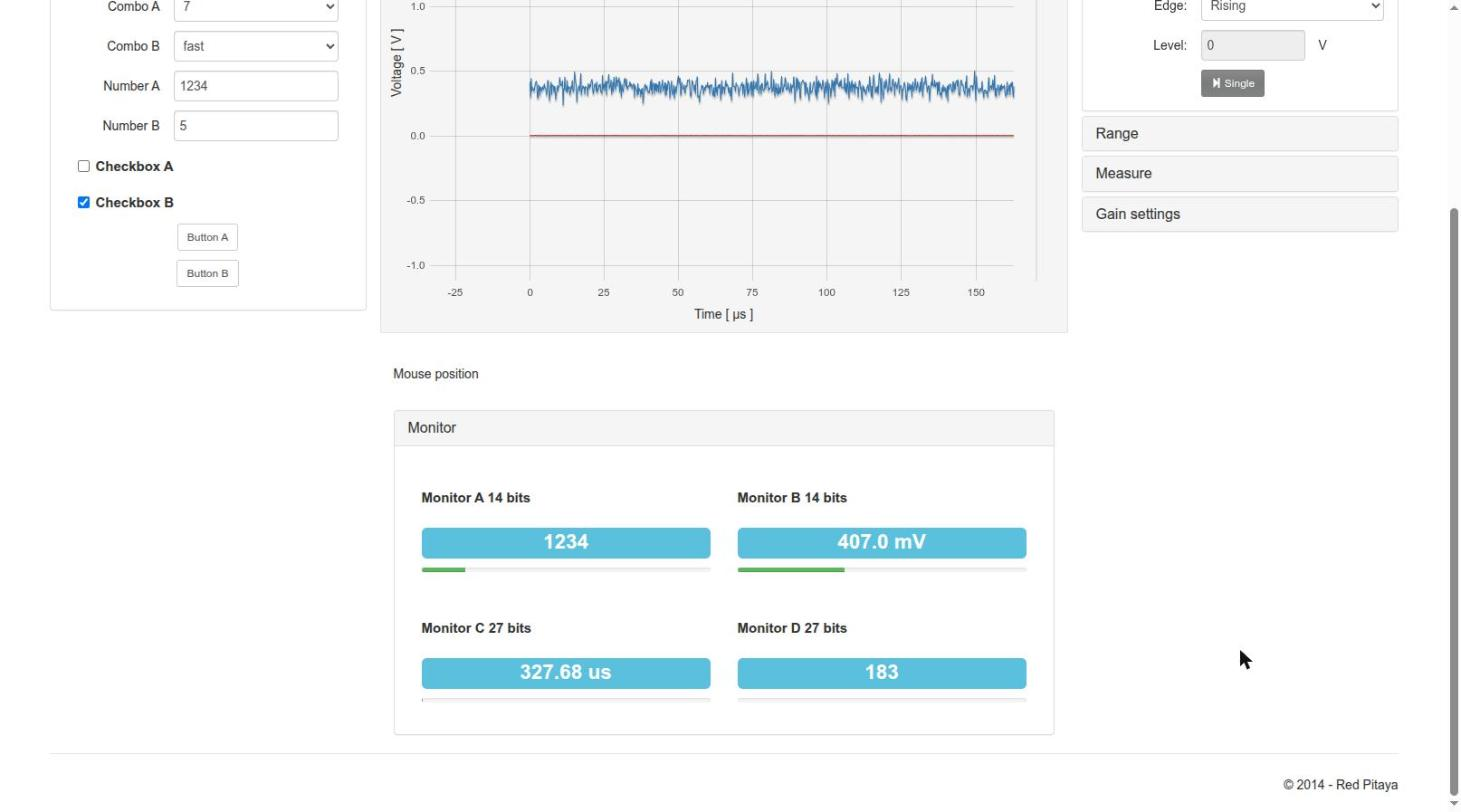
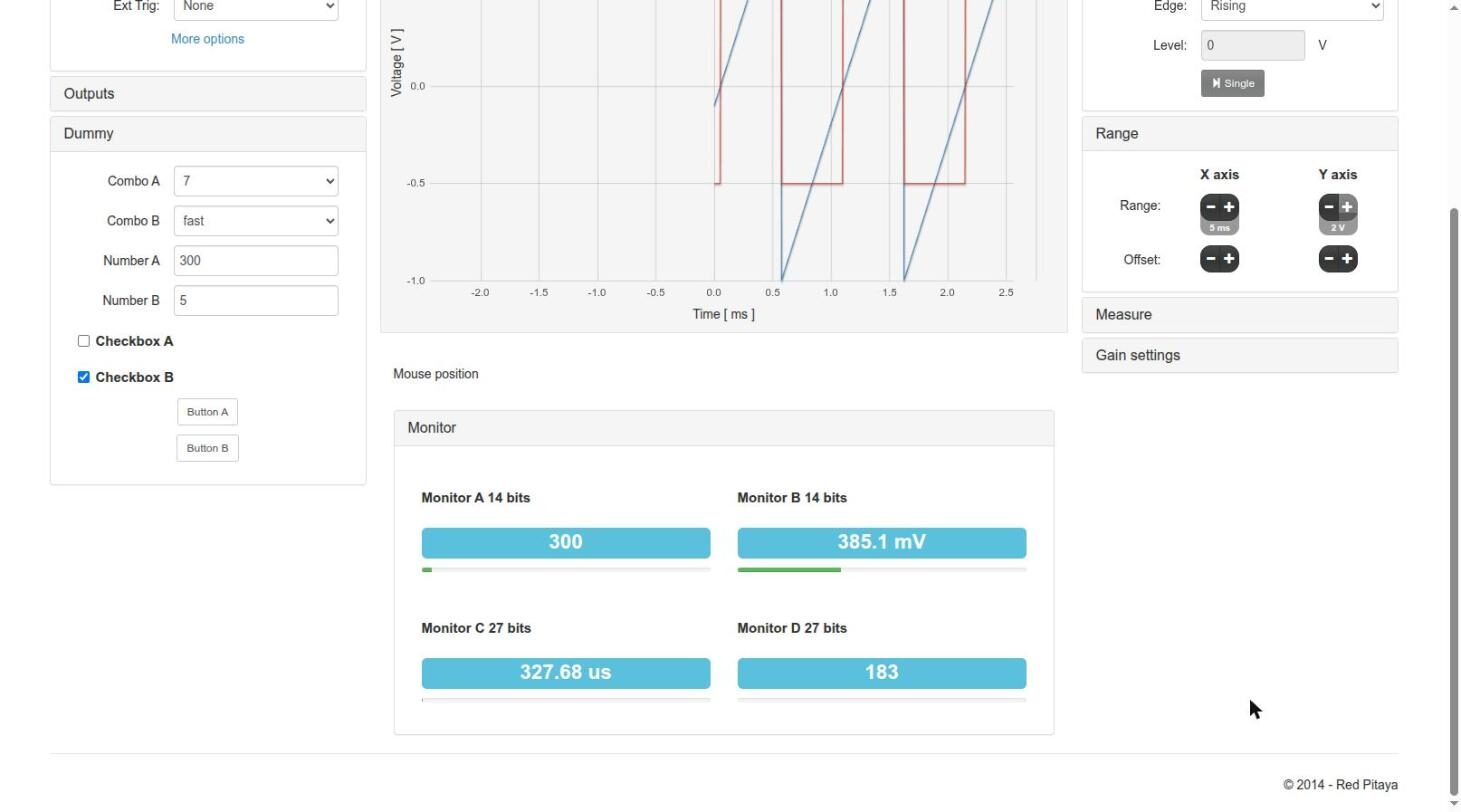
docs: screenshots retaken with rp_dummy2 2.0.1 (dummy2_test 0.1.0-14 on RP2): Raw Mode level in counts, AUTO in Raw, 0..69 s window; Usage.md section 6 captions
Claude-Session: https://claude.ai/code/session_018UVzxFsbUh7VXaKvoBuDA9

diff --git a/doc/Usage.md b/doc/Usage.md
@@ -543,7 +543,7 @@ oscA_sw          0x000   2 in2
 The page of a generated App is the same for every App; only the **Dummy** and **Monitor** panels depend on the `.ini`.
 The screenshots below are from the test App `dummy2_test` (the controls of `config.ini` plus test logic in `dummy.v`:
 an internal sawtooth `test_saw` and square wave `test_sq` on Osc A/B inputs 5/6, and the square as an Ext Trig source),
-taken on RP2 (Ecosystem 2.04-35) during the tests of CP4 and CP4_bis (`reportes/dummy2/`).
+taken on RP2 (Ecosystem 2.04-35) with rp_dummy2 2.0.1 (`dummy2_test` 0.1.0-14, 2026-10-24).
 
 ![Web UI: Oscilloscope, Outputs and Dummy panels on the left, plot, Trigger and Range on the right](.Usage/ui_overview_test_saw_square.jpg)
 
@@ -584,7 +584,7 @@ taken on RP2 (Ecosystem 2.04-35) during the tests of CP4 and CP4_bis (`reportes/
 - **Raw Mode**: Y axis and monitors in integer counts (8192 counts = 1 V for the 14-bit signals); the Y axis autoscales
   when it is toggled.
 
-![Reset zoom in Raw Mode: 0..1049 µs, Y -8192..8192](.Usage/reset_zoom_raw_mode.jpg)
+![Reset zoom in Raw Mode: one memory at the current decimation (0..8.4 ms), Y -8192..8192 counts, trigger level and monitor B in counts](.Usage/reset_zoom_raw_mode.jpg)
 
 - **Trigger**: Auto (free running when there is no trigger), Normal (waits for the trigger), Single (one acquisition,
   armed with the Single button). Level in V, or in ADC counts in Raw Mode (-8192..8191, the unit next to the box says
@@ -600,12 +600,13 @@ taken on RP2 (Ecosystem 2.04-35) during the tests of CP4 and CP4_bis (`reportes/
   few periods; with a DC signal it sets Mode = Auto. It finishes in a few seconds at most (every wait has a time limit
   in the controller, `src/worker.c`; tested on RP2: < 2.5 s, `reportes/dummy2/2026-10-23_cp4_bis_test.md` B6).
 
-![AUTO on the sawtooth: Normal / Channel 1, 0..1.57 ms](.Usage/auto_button_saw.jpg)
+![AUTO in Raw Mode on the sawtooth: Normal / Channel 1, level -2 counts, 0..1.57 ms](.Usage/auto_button_saw.jpg)
 
 - Long windows: at decimation 524288 one acquisition lasts about 69 s; the trace grows from the left while it is
-  acquired.
+  acquired. The last X+ step is 50 s; **Reset zoom** at that decimation shows the whole 0..69 s memory (seen on RP2,
+  2026-10-24).
 
-![60 s window](.Usage/range_60s.jpg)
+![Longest window: Reset zoom at decimation 524288, 0..69 s (in1 and the test square)](.Usage/range_60s.jpg)
 
 ### 6.4 Configurations and page state
 
@@ -615,4 +616,4 @@ taken on RP2 (Ecosystem 2.04-35) during the tests of CP4 and CP4_bis (`reportes/
 - Ecosystem 2.0 details handled by the page: parameters are sent in POSTs of at most 600 bytes (`index.html` l. 65),
   with retries; `index.html` is not cached (`nginx.conf`).
 
-![Config dialog](.Usage/config_modal.jpg)
+![Config dialog: name, Save in browser / Save as file, Load file, and the table of saved configurations](.Usage/config_modal.jpg)
